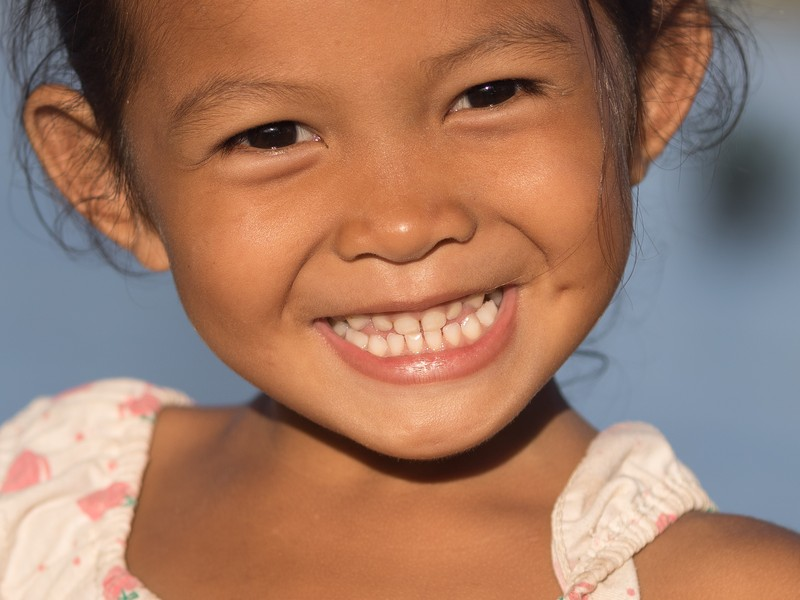
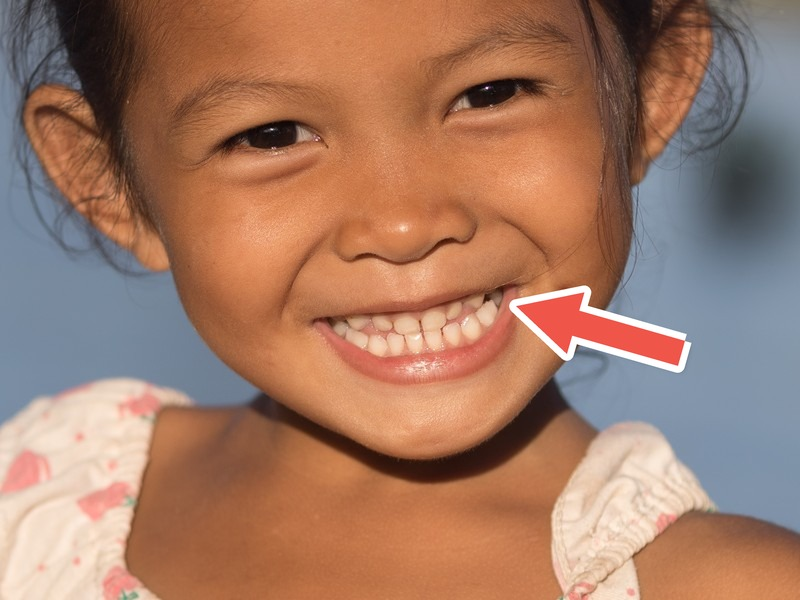
cards: 6巻「이（は）」の写真に白フチ付きコーラルの矢印を追加（歯を指す）・PHOTO_VERを5に更新・クレジット表記を更新

Changed region(s): [[0.625, 0.48, 0.875, 0.63]]

diff --git a/cards.html b/cards.html
@@ -888,7 +888,7 @@ var VOLUMES = [
   "6-ko": { f: "assets/photos/v6-ko.jpg", a: "TheNoseKnows2Much", l: "CC BY-SA 4.0", u: "https://commons.wikimedia.org/wiki/File:Nose_Example.jpg" },
   "6-ip": { f: "assets/photos/v6-ip.jpg", a: "MoreCapablePir", l: "CC BY-SA 4.0", u: "https://commons.wikimedia.org/wiki/File:Mond_Bild_letz.jpg", m: "トリミング・軽いシャープ調整" },
   "6-gwi": { f: "assets/photos/v6-gwi.jpg", a: "צולם על ידי he:משתמש:אנדר-ויק", l: "Public domain", u: "https://commons.wikimedia.org/wiki/File:Closeup_of_a_human_ear.jpg" },
-  "6-i": { f: "assets/photos/v6-i.jpg", a: "Basile Morin", l: "CC BY-SA 4.0", u: "https://commons.wikimedia.org/wiki/File:Young_girl_smiling_with_teeth_in_sunshine.jpg" },
+  "6-i": { f: "assets/photos/v6-i.jpg", a: "Basile Morin", l: "CC BY-SA 4.0", u: "https://commons.wikimedia.org/wiki/File:Young_girl_smiling_with_teeth_in_sunshine.jpg", m: "矢印を加筆" },
   "6-mok": { f: "assets/photos/v6-mok.jpg", a: "FotoFyl / Erifyli Tsavdari", l: "CC BY 2.0", u: "https://commons.wikimedia.org/wiki/File:Female_neck.jpg" },
   "6-eokkae": { f: "assets/photos/v6-eokkae.jpg", a: "Mohammad Faruque primitivestudios", l: "CC0", u: "https://commons.wikimedia.org/wiki/File:Man_in_t-shirt_posing_(Unsplash).jpg", m: "トリミング・矢印を加筆" },
   "6-pal": { f: "assets/photos/v6-pal.jpg", a: "Autumn Goodman auttgood", l: "CC0", u: "https://commons.wikimedia.org/wiki/File:Guy_in_blue_t-shirt_cropped_smaller.jpg", m: "トリミング・矢印を加筆" },
@@ -1191,7 +1191,7 @@ var VOLUMES = [
   /* 音声ファイルを追加したら、この数字を上げてください（ブラウザに残った古い404を避けるため） */
   var AUDIO_VER = "2";
   /* 写真を差し替えたら、この数字を上げてください（ブラウザに残った古い画像を避けるため） */
-  var PHOTO_VER = "4";
+  var PHOTO_VER = "5";
   var LANG_KEY = "levelupk_cards_lang";
   var probeCache = {};
   var lang = "ja";

diff --git a/assets/photos/CREDITS.md b/assets/photos/CREDITS.md
@@ -6,7 +6,7 @@
 ファイルは `assets/photos/v{巻}-{スラッグ}.jpg`（800×600・JPEG）に置いています。
 CC BY / CC BY-SA の写真は、カードの下に「写真：作者 ／ Wikimedia Commons（ライセンス）」と表示しています。
 第11〜25巻の225点は 2026-11-25 に追加しました（第5巻「いろ」の15語をのぞく全25巻375語が実写真）。
-第6巻（からだ）の 어깨・팔・다리 は、体の部分が一目で分かるように元の写真をトリミングし、矢印（白フチ付き）を描き足しています（CC BY-SAの写真は改変したことをライセンス欄に明記）。
+第6巻（からだ）の 이・어깨・팔・다리 は、体の部分が一目で分かるように元の写真をトリミングし（이のみトリミングなし）、矢印（白フチ付き）を描き足しています（CC BY-SAの写真は改変したことをライセンス欄に明記）。
 第5巻「いろ」の15語は写真ではなく、カードいっぱいに色を塗った色見本で表示しています（出典表示なし）。
 
 | 巻 | ファイル | ことば | 元のファイル | 作者 | ライセンス | 出典 |
@@ -80,7 +80,7 @@ CC BY / CC BY-SA の写真は、カードの下に「写真：作者 ／ Wikimed
 | 第6巻 からだ | v6-ko.jpg | 코（はな） | Nose Example.jpg | TheNoseKnows2Much | CC BY-SA 4.0 | [Commons](https://commons.wikimedia.org/wiki/File:Nose_Example.jpg) |
 | 第6巻 からだ | v6-ip.jpg | 입（くち） | Mond Bild letz.jpg | MoreCapablePir | CC BY-SA 4.0（トリミング・軽いシャープ調整） | [Commons](https://commons.wikimedia.org/wiki/File:Mond_Bild_letz.jpg) |
 | 第6巻 からだ | v6-gwi.jpg | 귀（みみ） | Closeup of a human ear.jpg | צולם על ידי he:משתמש:אנדר-ויק | Public domain | [Commons](https://commons.wikimedia.org/wiki/File:Closeup_of_a_human_ear.jpg) |
-| 第6巻 からだ | v6-i.jpg | 이（は） | Young girl smiling with teeth in sunshine.jpg | Basile Morin | CC BY-SA 4.0 | [Commons](https://commons.wikimedia.org/wiki/File:Young_girl_smiling_with_teeth_in_sunshine.jpg) |
+| 第6巻 からだ | v6-i.jpg | 이（は） | Young girl smiling with teeth in sunshine.jpg | Basile Morin | CC BY-SA 4.0（矢印を加筆） | [Commons](https://commons.wikimedia.org/wiki/File:Young_girl_smiling_with_teeth_in_sunshine.jpg) |
 | 第6巻 からだ | v6-mok.jpg | 목（くび） | Female neck.jpg | FotoFyl  / Erifyli Tsavdari | CC BY 2.0 | [Commons](https://commons.wikimedia.org/wiki/File:Female_neck.jpg) |
 | 第6巻 からだ | v6-eokkae.jpg | 어깨（かた） | Man in t-shirt posing (Unsplash).jpg | Mohammad Faruque primitivestudios | CC0（トリミング・矢印を加筆） | [Commons](https://commons.wikimedia.org/wiki/File:Man_in_t-shirt_posing_(Unsplash).jpg) |
 | 第6巻 からだ | v6-pal.jpg | 팔（うで） | Guy in blue t-shirt cropped smaller.jpg | Autumn Goodman auttgood | CC0（トリミング・矢印を加筆） | [Commons](https://commons.wikimedia.org/wiki/File:Guy_in_blue_t-shirt_cropped_smaller.jpg) |
